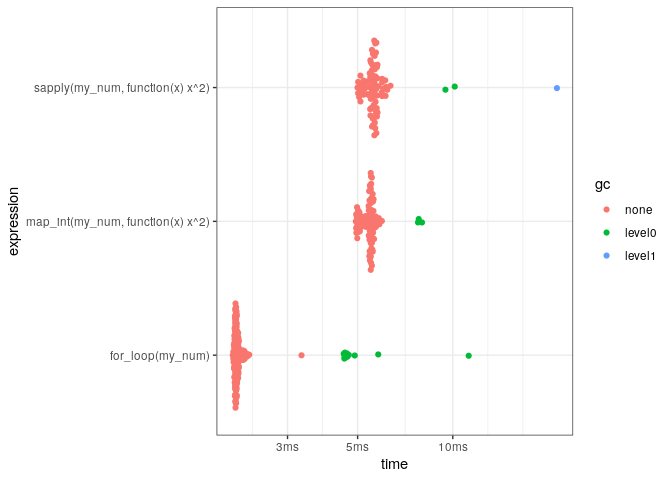
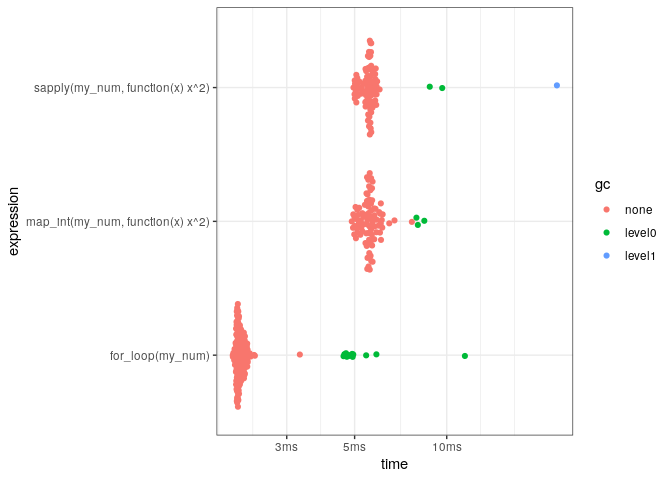
System time

diff --git a/README.md b/README.md
@@ -848,8 +848,8 @@ x <- runif(100)
     ## # A tibble: 2 × 6
     ##   expression      min   median `itr/sec` mem_alloc `gc/sec`
     ##   <bch:expr> <bch:tm> <bch:tm>     <dbl> <bch:byt>    <dbl>
-    ## 1 sqrt(x)    327.01ns 347.03ns  1811535.      848B        0
-    ## 2 x^0.5        2.08µs   2.13µs   396553.      848B        0
+    ## 1 sqrt(x)    349.01ns    373ns  1730913.      848B        0
+    ## 2 x^0.5        2.22µs   2.27µs   374960.      848B        0
 
 `for` versus `map_int` versus `sapply`.
 
@@ -873,9 +873,9 @@ for_loop <- function(n){
     ## # A tibble: 3 × 6
     ##   expression                            min  median `itr/sec` mem_alloc `gc/sec`
     ##   <bch:expr>                       <bch:tm> <bch:t>     <dbl> <bch:byt>    <dbl>
-    ## 1 for_loop(my_num)                   2.01ms  2.07ms      480.    1.69MB    32.6 
-    ## 2 map_int(my_num, function(x) x^2)   4.93ms   5.5ms      185.   47.97KB     6.23
-    ## 3 sapply(my_num, function(x) x^2)    4.99ms  5.63ms      179.  367.85KB     6.47
+    ## 1 for_loop(my_num)                      2ms   2.1ms      471.    1.69MB    30.2 
+    ## 2 map_int(my_num, function(x) x^2)   4.89ms  5.58ms      179.   47.97KB     6.23
+    ## 3 sapply(my_num, function(x) x^2)    4.96ms  5.58ms      181.  367.85KB     6.47
 
   - `min` - The minimum execution time.
   - `median` - The sample median of execution time.
@@ -903,6 +903,47 @@ plot(ms)
 ```
 
 ![](img/plot_ms-1.png)<!-- -->
+
+Use `system.time` to measure CPU time.
+
+``` r
+system.time(
+  x <- replicate(1000, for_loop(my_num))
+)
+```
+
+    ##    user  system elapsed 
+    ##   3.290   0.080   3.378
+
+``` r
+system.time(
+  y <- replicate(1000, map_int(my_num, function(x) x^2))
+)
+```
+
+    ##    user  system elapsed 
+    ##   5.501   0.028   5.541
+
+``` r
+system.time(
+  z <- replicate(1000, sapply(my_num, function(x) x^2))
+)
+```
+
+    ##    user  system elapsed 
+    ##   6.538   0.074   6.628
+
+``` r
+all.equal(x, y)
+```
+
+    ## [1] TRUE
+
+``` r
+all.equal(x, z)
+```
+
+    ## [1] TRUE
 
 ## General
 
@@ -981,7 +1022,7 @@ system.time(
 ```
 
     ##    user  system elapsed 
-    ##   1.450   0.000   1.453
+    ##   1.499   0.000   1.503
 
 The `with` function evaluates an expression with data.
 
@@ -1302,7 +1343,7 @@ eval(parse(text = my_var))
 
 This README was generated by running `readme.Rmd` in RStudio Server.
 
-    ## [1] "2023-07-31 06:03:02 UTC"
+    ## [1] "2023-07-31 06:42:36 UTC"
 
 Session info.
 
